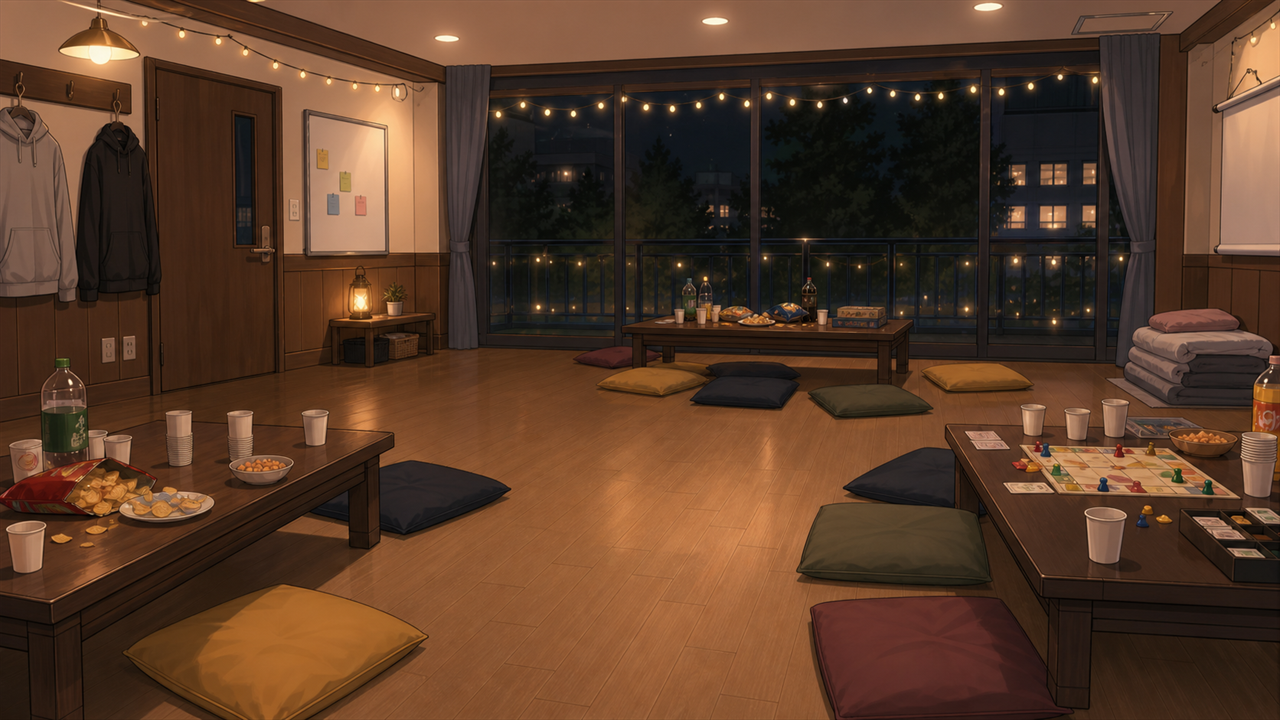
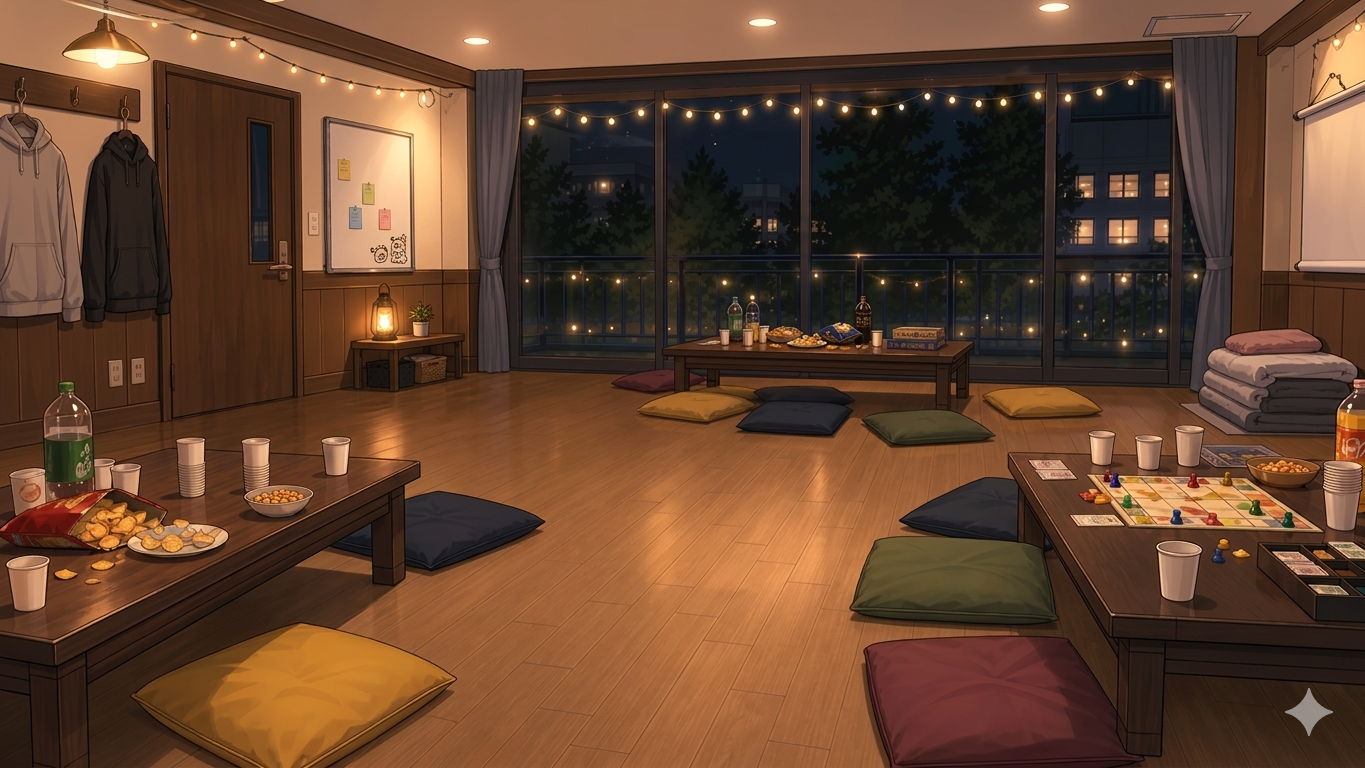
add:bg and char

diff --git a/story-data-excel.js b/story-data-excel.js
@@ -9,7 +9,7 @@ const EPISODES = {
     {
       "id": 2,
       "type": "background",
-      "name": "도서관 열람실",
+      "name": "(CG) 침실 앞 책상에서 과제를 하는 주인공",
       "transition": "fadeBlack"
     },
     {
@@ -156,20 +156,30 @@ const EPISODES = {
     },
     {
       "id": 21,
+      "type": "background",
+      "name": "집 안 침실",
+      "transition": {
+        "type": "fadeSlide",
+        "duration": 700,
+        "direction": "right"
+      }
+    },
+    {
+      "id": 22,
       "type": "dialogue",
       "speaker": "독백",
       "text": "이제 집에 가서 공부하다 자야겠다..."
     },
     {
       "type": "clear background",
-      "id": 22
+      "id": 23
     },
     {
       "type": "move",
       "next": "MINIGAME",
       "minigame": "brickBreaker",
       "after": "EP2 동아리 OT",
-      "id": 23
+      "id": 24
     }
   ],
   "EP2 동아리 OT": [
@@ -496,7 +506,7 @@ const EPISODES = {
     {
       "id": 2,
       "type": "background",
-      "name": "(CG) MT 장소에 둘러앉은 주인공, 수진, 건호, 혜지",
+      "name": "(CG) MT 장소에 둘러앉은 넷",
       "transition": "fadeBlack"
     },
     {
@@ -1208,7 +1218,7 @@ const EPISODES = {
     {
       "id": 2,
       "type": "background",
-      "name": "(CG) 예쁜 파스타집에 있는 주인공과 수진",
+      "name": "(CG) 예쁜 파스타집에 앉은 수진",
       "transition": "fadeBlack"
     },
     {
@@ -1230,6 +1240,16 @@ const EPISODES = {
     },
     {
       "id": 6,
+      "type": "background",
+      "name": "예쁜 파스타",
+      "transition": {
+        "type": "fadeSlide",
+        "duration": 700,
+        "direction": "right"
+      }
+    },
+    {
+      "id": 27,
       "type": "background",
       "name": "예쁜 파스타집",
       "transition": {
@@ -1759,7 +1779,7 @@ const EPISODES = {
     {
       "id": 31,
       "type": "background",
-      "name": "카톡창 안",
+      "name": "카톡방 화면",
       "transition": "fadeBlack"
     },
     {
@@ -1963,6 +1983,16 @@ const EPISODES = {
       "text": "넵, 선배 고칠게요"
     },
     {
+      "id": 35,
+      "type": "background",
+      "name": "문 세트",
+      "transition": {
+        "type": "fadeSlide",
+        "duration": 700,
+        "direction": "right"
+      }
+    },
+    {
       "id": 16,
       "type": "dialogue",
       "speaker": "나레이션",
@@ -2145,7 +2175,7 @@ const EPISODES = {
     {
       "id": 2,
       "type": "background",
-      "name": "밤, 대학가",
+      "name": "(CG) 텅 빈 밤길을 걸어가는 둘",
       "transition": {
         "type": "fadeSlide",
         "duration": 700,
@@ -2158,6 +2188,17 @@ const EPISODES = {
       "type": "dialogue",
       "speaker": "나레이션",
       "text": "(텅 빈 밤길. 둘은 천천히 걸어간다.)"
+    },
+    {
+      "id": 25,
+      "type": "background",
+      "name": "밤, 대학가",
+      "transition": {
+        "type": "fadeSlide",
+        "duration": 700,
+        "direction": "right",
+        "slideSpeed": 0.7
+      }
     },
     {
       "id": 4,
@@ -2214,6 +2255,20 @@ const EPISODES = {
       "text": "(주인공은 잠깐 수진을 바라본다)"
     },
     {
+      "id": 26,
+      "type": "clear characters"
+    },
+    {
+      "id": 27,
+      "type": "background",
+      "name": "(CG) 서로 바라보는 둘",
+      "transition": {
+        "type": "fadeSlide",
+        "duration": 700,
+        "direction": "right"
+      }
+    },
+    {
       "id": 13,
       "type": "choice",
       "prompt": "(주인공은 잠깐 수진을 바라본다)",
@@ -2267,6 +2322,17 @@ const EPISODES = {
       "text": "나 사실 너 좋아해.., 너는 나 어때?"
     },
     {
+      "id": 28,
+      "type": "background",
+      "name": "밤, 대학가",
+      "transition": {
+        "type": "fadeSlide",
+        "duration": 700,
+        "direction": "right",
+        "slideSpeed": 0.7
+      }
+    },
+    {
       "id": 16,
       "type": "character in",
       "name": "수진",
@@ -2303,6 +2369,20 @@ const EPISODES = {
       "text": "아니.. 너무 좋아서ㅎㅎ"
     },
     {
+      "id": 29,
+      "type": "clear characters"
+    },
+    {
+      "id": 30,
+      "type": "background",
+      "name": "(CG) 손을 잡는 둘",
+      "transition": {
+        "type": "fadeSlide",
+        "duration": 700,
+        "direction": "right"
+      }
+    },
+    {
       "id": 22,
       "type": "dialogue",
       "speaker": "독백",
@@ -2327,7 +2407,7 @@ const EPISODES = {
     {
       "id": 2,
       "type": "background",
-      "name": "밤, 대학가",
+      "name": "(CG) 텅 빈 밤길을 걸어가는 둘",
       "transition": {
         "type": "fadeSlide",
         "duration": 700,
@@ -2340,6 +2420,17 @@ const EPISODES = {
       "type": "dialogue",
       "speaker": "나레이션",
       "text": "(텅 빈 밤길. 둘은 천천히 걸어간다.)"
+    },
+    {
+      "id": 26,
+      "type": "background",
+      "name": "밤, 대학가",
+      "transition": {
+        "type": "fadeSlide",
+        "duration": 700,
+        "direction": "right",
+        "slideSpeed": 0.7
+      }
     },
     {
       "id": 4,
@@ -2461,6 +2552,20 @@ const EPISODES = {
       "type": "dialogue",
       "speaker": "수진",
       "text": "먼저 갈게.."
+    },
+    {
+      "id": 27,
+      "type": "clear characters"
+    },
+    {
+      "id": 28,
+      "type": "background",
+      "name": "(CG) 혼자 남은 주인공)",
+      "transition": {
+        "type": "fadeSlide",
+        "duration": 700,
+        "direction": "right"
+      }
     },
     {
       "id": 22,

diff --git a/config.js b/config.js
@@ -56,9 +56,14 @@ const ASSET_MANIFEST = {
     "편의점": "./assets/bg/convenience_store_night.png",
     "(CG) 수진이 편의점 계산대에서 졸고 있음": "./assets/bg/convenience_sujin_sleepy_cg_v2.png",
     "(CG) 수진이 편의점 계산대에서 화들짝 깨어남": "./assets/bg/convenience_sujin_startled_cg_v3.png",
+    "(CG) 침실 앞 책상에서 과제를 하는 주인공": "./assets/bg/protagonist_desk_assignment_cg.png",
+    "집 안 침실": "./assets/bg/protagonist_bedroom_night.png",
     "강의실 혹은 동아리방": "./assets/bg/club_classroom.png",
+    "동아리방": "./assets/bg/club_room_inside.png",
     "MT 장소": "./assets/bg/mt_room.png",
     "(CG) MT 장소에 둘러앉은 주인공, 수진, 건호, 혜지": "./assets/bg/mt_group_cg.png",
+    "(CG) 동아리방에 둘러앉은 넷": "./assets/bg/club_room_group_cg.png",
+    "(CG) MT 장소에 둘러앉은 넷": "./assets/bg/mt_group_cg_v2.png",
     "소주병을 향해 뻗는 수진의 손": "./assets/bg/soju_hand.png",
     "소주병을 향해 뻗는 수진의 손을 잡는 건호의 손": "./assets/bg/soju_hand_stopped.png",
     "공포방탈출 입구": "./assets/bg/escape_room_entrance.png",
@@ -66,15 +71,27 @@ const ASSET_MANIFEST = {
     "공포방탈출 외부": "./assets/bg/escape_room_exterior.png",
     "(CG) 천장에서 귀신이 떨어지는 걸 보고 놀라는 수진": "./assets/bg/escape_room_jump_scare.png",
     "예쁜 파스타집": "./assets/bg/pasta_restaurant.png",
+    "예쁜 파스타": "./assets/bg/pasta_food_closeup.png",
     "길거리": "./assets/bg/university_street_night.png",
     "(CG) 예쁜 파스타집에 있는 주인공과 수진": "./assets/bg/pasta_restaurant_cg.png",
+    "(CG) 예쁜 파스타집에 앉은 수진": "./assets/bg/pasta_sujin_seated_cg.png",
     "(CG) 파스타집을 나와 걸어가는 주인공과 수진": "./assets/bg/pasta_night_walk_cg.png",
     "야외 교내": "./assets/bg/campus_outdoor.png",
     "동아리 앞": "./assets/bg/club_room_front.png",
     "동아리실 안": "./assets/bg/club_room_inside.png",
     "카톡창 안": "./assets/bg/chat_screen.png",
+    "카톡방 화면": "./assets/bg/kakaotalk_group_chat_screen.png",
     "백스테이지": "./assets/bg/backstage.png",
-    "밤, 대학가": "./assets/bg/campus_night.png"
+    "(CG) 백스테이지에 있는 주인공과 수진": "./assets/bg/backstage_protagonist_sujin_cg.png",
+    "문 세트": "./assets/bg/stage_door_set.png",
+    "수진이 우는 모습": "./assets/bg/sujin_crying_backstage_cg.png",
+    "휴지를 건네는 장면": "./assets/bg/tissue_to_sujin_cg.png",
+    "토닥이는 장면": "./assets/bg/comforting_sujin_cg.png",
+    "밤, 대학가": "./assets/bg/campus_night.png",
+    "(CG) 텅 빈 밤길을 걸어가는 둘": "./assets/bg/night_street_two_walk_cg.png",
+    "(CG) 서로 바라보는 둘": "./assets/bg/ending_looking_at_each_other_cg.png",
+    "(CG) 손을 잡는 둘": "./assets/bg/ending_holding_hands_cg.png",
+    "(CG) 혼자 남은 주인공)": "./assets/bg/bad_ending_alone_protagonist_cg.png"
   },
   sounds: {
     bgm: {
@@ -86,34 +103,34 @@ const ASSET_MANIFEST = {
   },
   characters: {
     수진: {
-      default: "./assets/char/수진_Normal.png",
-      일반: "./assets/char/수진_Normal.png",
-      Normal: "./assets/char/수진_Normal.png",
-      Happy: "./assets/char/수진_Happy.png",
-      Surprised: "./assets/char/수진_Surprised.png",
-      Flustered: "./assets/char/수진_Flustered.png",
-      Frightened: "./assets/char/수진_Frightened.png",
-      Focused: "./assets/char/수진_Focused.png",
-      hopeful: "./assets/char/수진_hopeful.png",
-      Sad: "./assets/char/수진_Sad.png"
+      default: "./assets/char_new/sujin_normal.png",
+      일반: "./assets/char_new/sujin_normal.png",
+      Normal: "./assets/char_new/sujin_normal.png",
+      Happy: "./assets/char_new/sujin_happy.png",
+      Surprised: "./assets/char_new/sujin_surprised.png",
+      Flustered: "./assets/char_new/sujin_flustered.png",
+      Frightened: "./assets/char_new/sujin_startled.png",
+      Focused: "./assets/char_new/sujin_focused.png",
+      hopeful: "./assets/char_new/sujin_expectant.png",
+      Sad: "./assets/char_new/sujin_sad.png"
     },
     혜지: {
-      default: "./assets/char/혜지_Normal.png",
-      일반: "./assets/char/혜지_Normal.png",
-      Normal: "./assets/char/혜지_Normal.png",
-      Happy: "./assets/char/혜지_Happy.png",
-      Surprised: "./assets/char/혜지_Surprised.png",
-      Frightened: "./assets/char/혜지_Frightened.png",
-      Flustered: "./assets/char/혜지_Flustered.png"
+      default: "./assets/char_new/Hyeji_normal.png",
+      일반: "./assets/char_new/Hyeji_normal.png",
+      Normal: "./assets/char_new/Hyeji_normal.png",
+      Happy: "./assets/char_new/Hyeji_happy.png",
+      Surprised: "./assets/char_new/Hyeji_surprised.png",
+      Frightened: "./assets/char_new/Hyeji_startled.png",
+      Flustered: "./assets/char_new/Hyeji_flustered.png"
     },
     건호: {
-      default: "./assets/char/건호_Normal.png",
-      일반: "./assets/char/건호_Normal.png",
-      Normal: "./assets/char/건호_Normal.png",
-      Happy: "./assets/char/건호_Happy.png",
-      Focused: "./assets/char/건호_Focused.png",
-      Surprised: "./assets/char/건호_Surprised.png",
-      Flustered: "./assets/char/건호_Flustered.png"
+      default: "./assets/char_new/Geonho_normal.png",
+      일반: "./assets/char_new/Geonho_normal.png",
+      Normal: "./assets/char_new/Geonho_normal.png",
+      Happy: "./assets/char_new/Geonho_happy.png",
+      Focused: "./assets/char_new/Geonho_focused.png",
+      Surprised: "./assets/char_new/Geonho_surprised.png",
+      Flustered: "./assets/char_new/Geonho_flustered.png"
     }
   }
 };

diff --git a/부족한_배경_생성_명세.md b/부족한_배경_생성_명세.md
@@ -80,3 +80,22 @@
 CG 배경은 시나리오 데이터에서 표시 직후 `clear characters`가 오도록 유지한다. 일반 배경으로 돌아갈 때는 명시적으로 새 `background` 노드를 넣는다.
 
 야외로 나가거나 밤길처럼 천천히 열리는 장면은 현재 규칙상 `fadeSlide`와 `slideSpeed: 0.7`을 사용한다. 같은 장소 안의 CG 컷인/시점 전환은 보통 `fadeSlide`, 완전히 장소가 바뀌는 경우는 `fadeBlack`을 사용한다.
+
+## 생성 완료 체크
+
+- [x] `(CG) 백스테이지에 있는 주인공과 수진` - `assets/bg/backstage_protagonist_sujin_cg.png`
+- [x] `문 세트` - `assets/bg/stage_door_set.png`
+- [x] `수진이 우는 모습` - `assets/bg/sujin_crying_backstage_cg.png`
+- [x] `휴지를 건네는 장면` - `assets/bg/tissue_to_sujin_cg.png`
+- [x] `토닥이는 장면` - `assets/bg/comforting_sujin_cg.png`
+- [x] `(CG) 텅 빈 밤길을 걸어가는 둘` - `assets/bg/night_street_two_walk_cg.png`
+- [x] `(CG) 서로 바라보는 둘` - `assets/bg/ending_looking_at_each_other_cg.png`
+- [x] `(CG) 손을 잡는 둘` - `assets/bg/ending_holding_hands_cg.png`
+- [x] `(CG) 혼자 남은 주인공)` - `assets/bg/bad_ending_alone_protagonist_cg.png`
+- [x] `(CG) 동아리방에 둘러앉은 넷` - `assets/bg/club_room_group_cg.png`
+- [x] `(CG) MT 장소에 둘러앉은 넷` - `assets/bg/mt_group_cg_v2.png`
+- [x] `(CG) 예쁜 파스타집에 앉은 수진` - `assets/bg/pasta_sujin_seated_cg.png`
+- [x] `예쁜 파스타` - `assets/bg/pasta_food_closeup.png`
+- [x] `(CG) 침실 앞 책상에서 과제를 하는 주인공` - `assets/bg/protagonist_desk_assignment_cg.png`
+- [x] `집 안 침실` - `assets/bg/protagonist_bedroom_night.png`
+- [x] `카톡방 화면` - `assets/bg/kakaotalk_group_chat_screen.png`